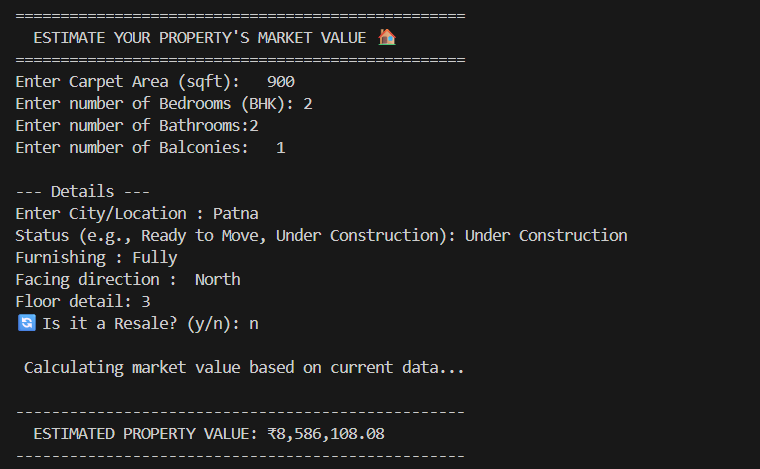
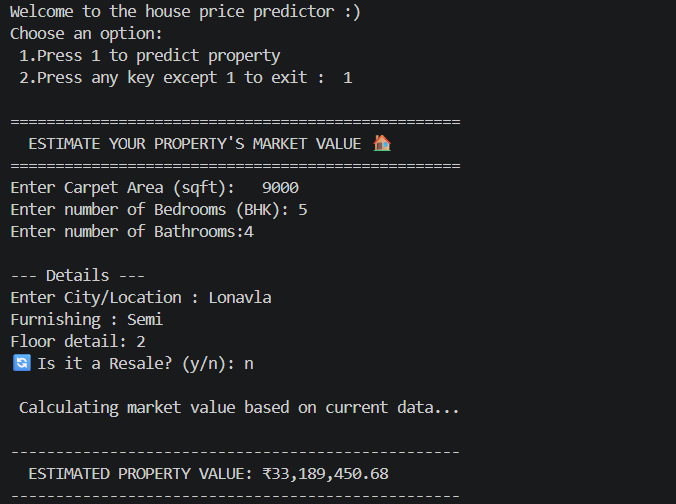
minor edits to predictor.py and added two sample run images

diff --git a/predictor.py b/predictor.py
@@ -41,17 +41,19 @@ def main():
     print("\n Calculating market value based on current data...")
 
     predicted_price = model.predict(user_data)[0]
+    final_price = max(predicted_price, 2000000)
 
     print("\n" + "-"*50)
-    print(f"  ESTIMATED PROPERTY VALUE: ₹{predicted_price:,.2f}")
+    print(f"  ESTIMATED PROPERTY VALUE: ₹{final_price:,.2f}")
     print("-"*50 + "\n")
     print("Thank you for using the property price predictor! 🏡")
 print("Welcome to the house price predictor :)")
-choice=input("Choose an option: \n 1. Press 1 to Predict another property\n 2.Press any key except 1 to exit  : ")
+choice=input("Choose an option: \n 1.Press 1 to predict property\n 2.Press any key except 1 to exit :  ")
 if choice == '1':
-    print("Goodbye! 👋")
+    main()
     exit()
 elif choice == '2':
-    main()
+    print("Exiting the program. Goodbye!")
+    exit
 else:
     exit()
